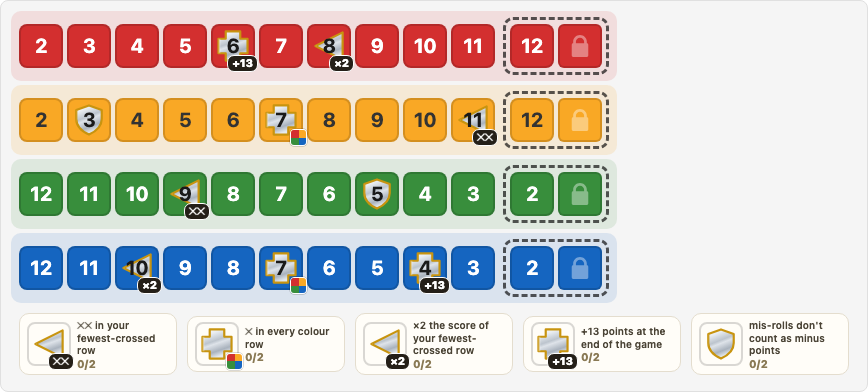
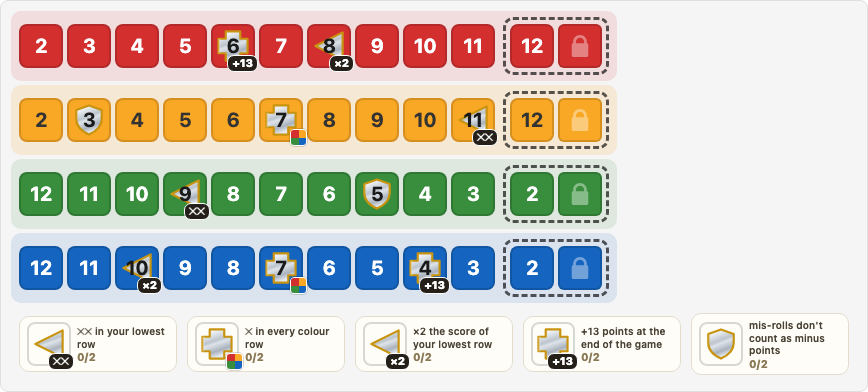
chore: improve game options phrasing

Changed region(s): [[0.4044, 0.7959, 0.591, 0.949], [0.0311, 0.7959, 0.1866, 0.949]]

diff --git a/client/src/app/settings/settings.component.css b/client/src/app/settings/settings.component.css
@@ -148,6 +148,9 @@ p {
   color: #888;
   margin: 0;
   line-height: 1.4;
+  /* Honour explicit newlines in a description (e.g. Bonus B's bulleted list) while still wrapping
+     normally. Single-line descriptions are unaffected. */
+  white-space: pre-line;
 }
 
 /* ── Option header: label + chip side by side ── */

diff --git a/README.md b/README.md
@@ -76,7 +76,7 @@ Every colored cell gains a smaller twin cell below it in the same row. You may c
 
 ### 12. Double B
 
-Some cells show their number twice on a diagonal and can be crossed twice. The second cross is allowed once the first is made and nothing to its right is crossed yet — an extra cross for the same number.
+A few cells can be crossed off twice.
 
 ![Double B](docs/option-previews/doubleB.png)
 
@@ -88,7 +88,12 @@ Some cells show their number twice on a diagonal and can be crossed twice. The s
 
 ### 14. Bonus B
 
-10 bonus boxes (2 each of 5 kinds) sit in the coloured rows. Cross both of a kind to trigger its bonus, marked on the strip below: ✕✕ two crosses in your fewest-crossed row, ✕ one in every colour, ×2 double that row's score, +13 points, or your mis-rolls don't count.
+5 bonuses. Cross each one off twice to earn it.
+- 2 crosses in your lowest row
+- one cross in every row
+- your lowest row's score is doubled
+- 13 extra points
+- penalty points become 0
 
 ![Bonus B](docs/option-previews/bonusB.png)
 
